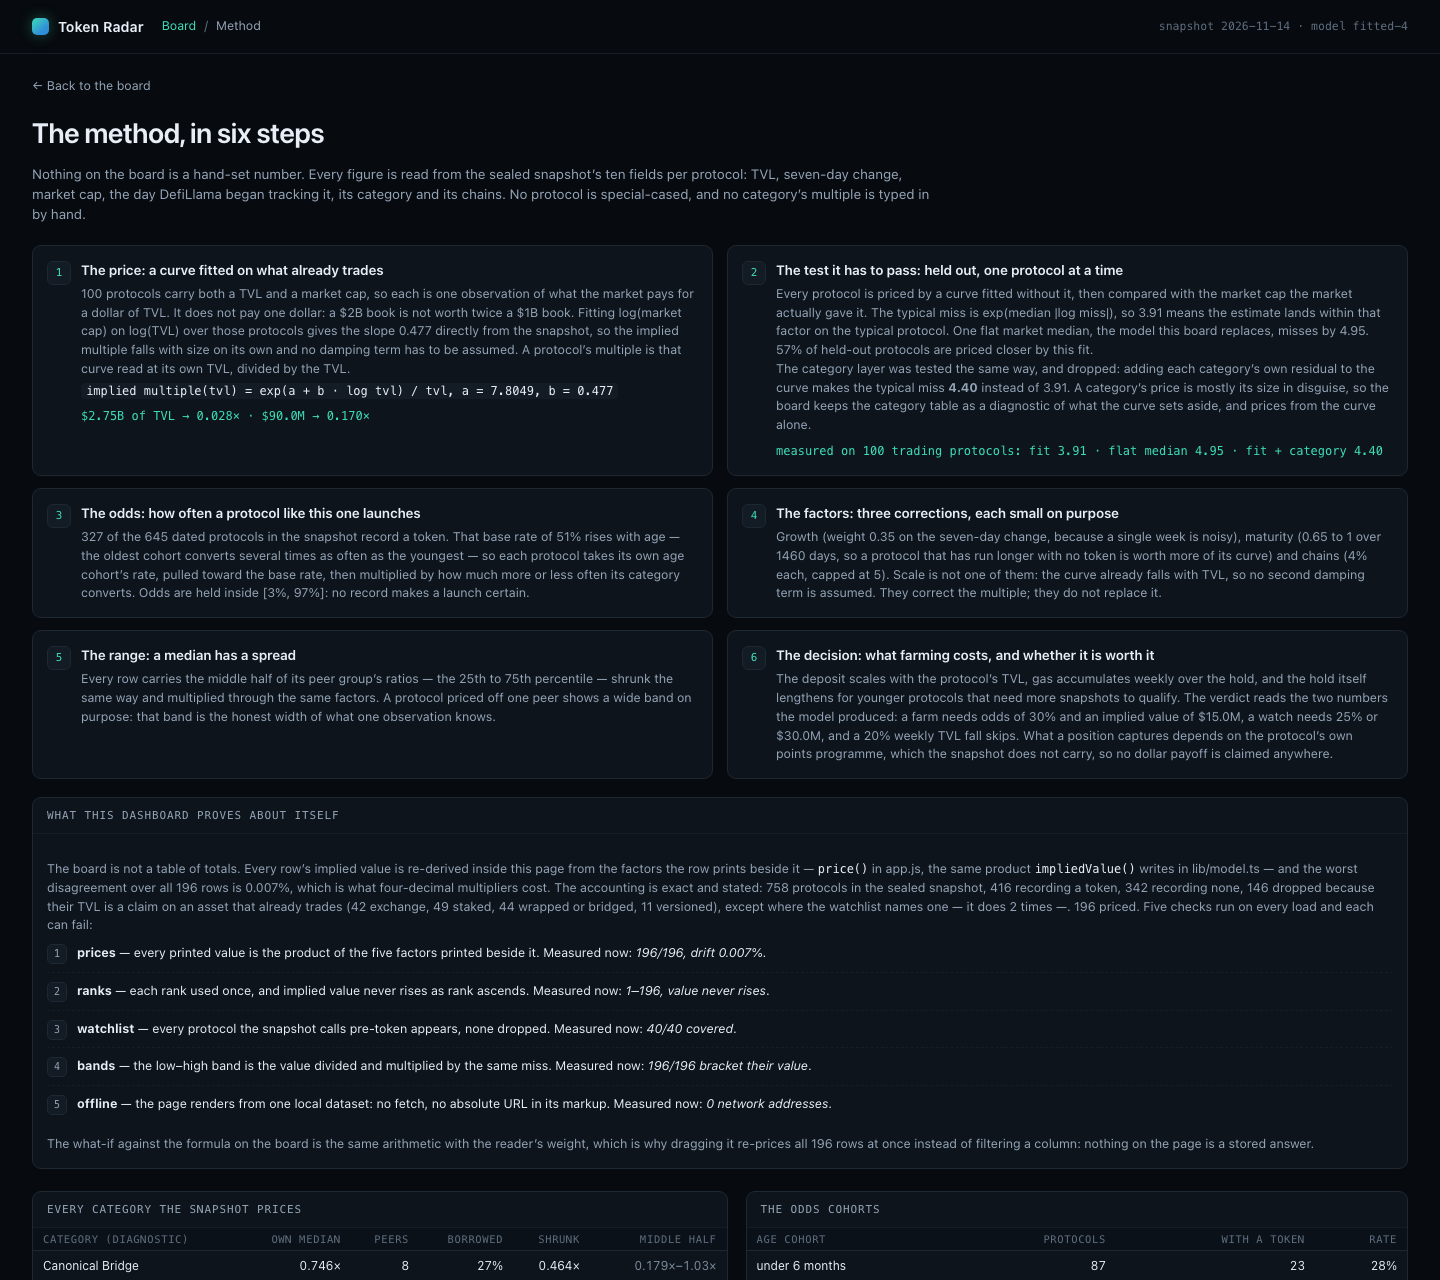
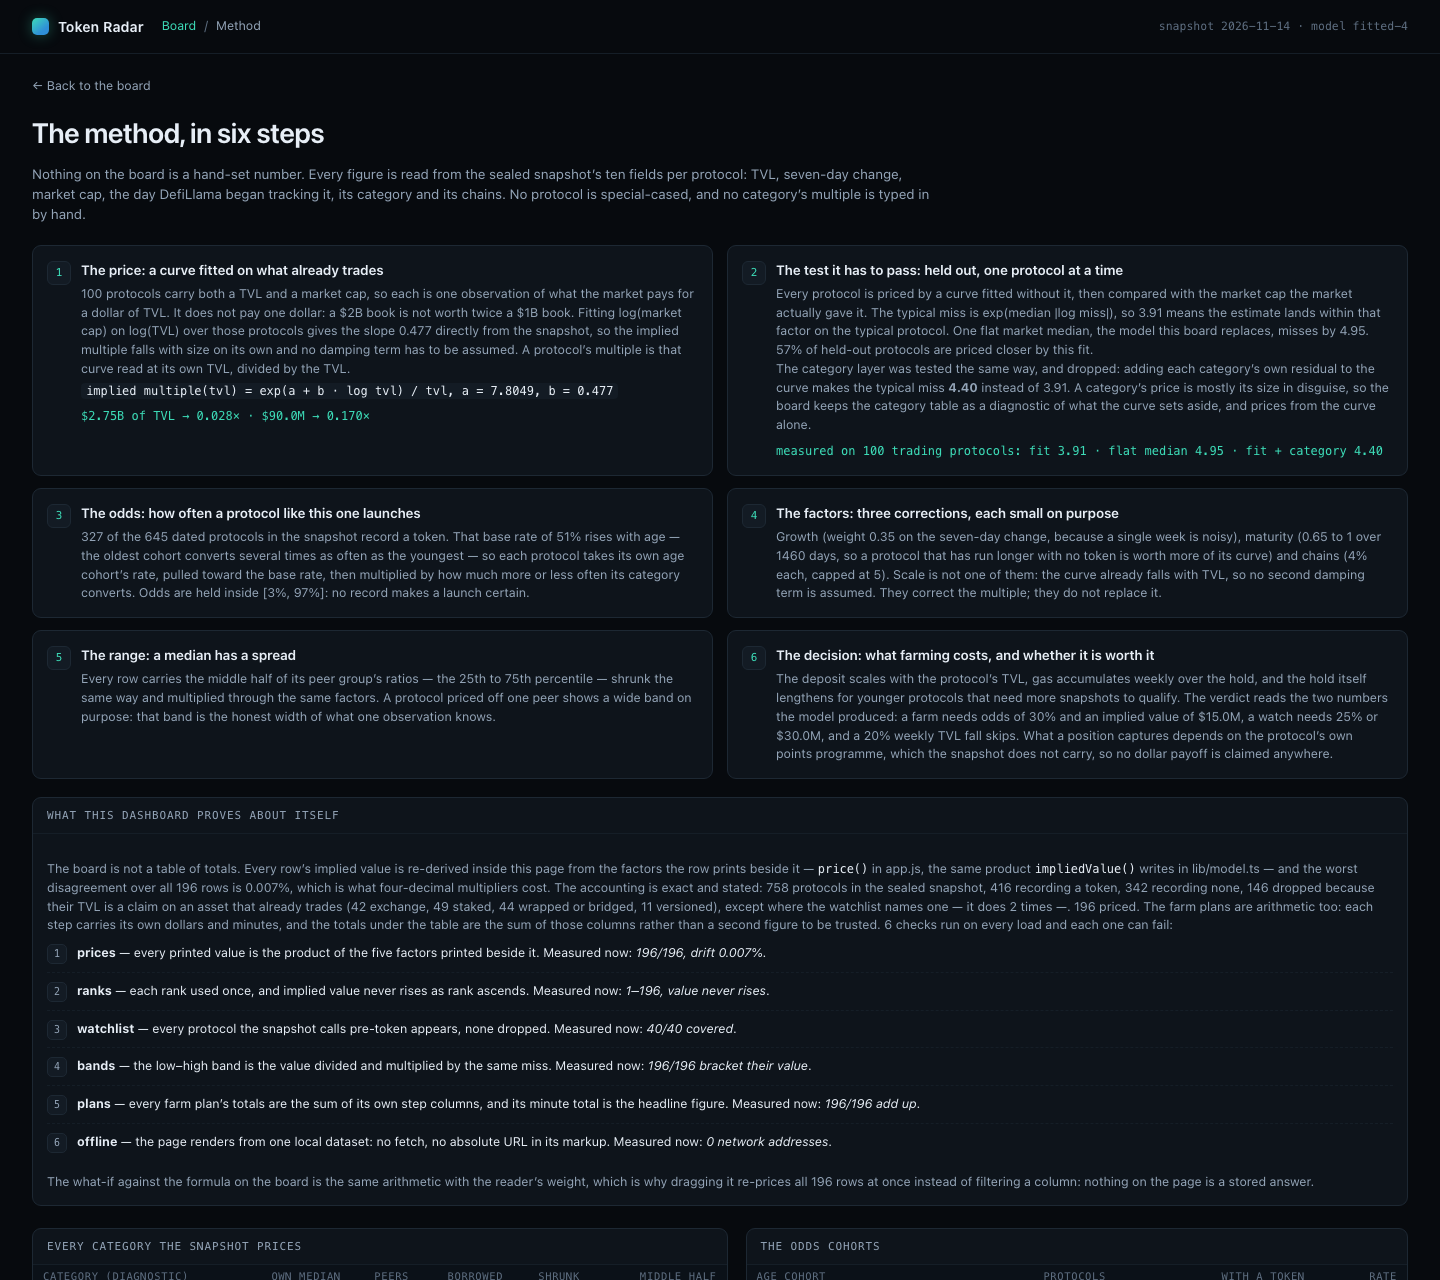
Cost every farm plan as a timetable instead of a paragraph
The judged weak spot was the farm plan: prose that said what to do but never what it
added up to. Each step now carries its own dollars, minutes and waiting days, farmPlan()
accumulates them, and the protocol page prints the table with a running spend and a day
counter, the closing step marked, and the totals as the sum of those columns.

The arithmetic is also load-bearing elsewhere: the headline minute figure is now the
plan's own column sum, gas/deposit is the plan's non-deposit cash over the deposit, and a
sixth self-check fails if any row's totals stop matching its steps.

diff --git a/lib/model.ts b/lib/model.ts
@@ -172,6 +172,71 @@ export interface FarmStep {
   text: string;
   cost: string;
   time: string;
+  /** A three-word label, so the step can be a row in a timetable. */
+  label: string;
+  /** Cash that leaves the wallet at this step, in dollars. */
+  usd: number;
+  /** Minutes of the reader's own attention at this step. */
+  minutes: number;
+  /** Calendar days this step occupies before the next one can start. */
+  days: number;
+  /** Whether this step closes the position: the plan's stated end. */
+  closes?: boolean;
+}
+
+/** One line of a costed timetable: the step, its price, and the running totals. */
+export interface FarmPlanStep {
+  n: number;
+  label: string;
+  usd: number;
+  minutes: number;
+  days: number;
+  /** Cash spent from step 1 through this step. */
+  spent_usd: number;
+  /** Days elapsed from step 1 through this step. */
+  elapsed_days: number;
+}
+
+/** The farm plan as arithmetic: every step priced, and the totals it adds up to. */
+export interface FarmPlan {
+  steps: FarmPlanStep[];
+  total_usd: number;
+  total_minutes: number;
+  total_days: number;
+  /** Cash at risk beyond the deposit itself: gas, checks, weekly actions. */
+  overhead_usd: number;
+  /** The step where the position is closed, so the plan has a stated end. */
+  exit_step: number;
+}
+
+/** Build the timetable from the steps, adding the running spend and elapsed time. */
+export function farmPlan(steps: FarmStep[], deposit: number): FarmPlan {
+  let spent = 0;
+  let elapsed = 0;
+  const rows: FarmPlanStep[] = steps.map((s, i) => {
+    spent += s.usd;
+    elapsed += s.days;
+    return {
+      n: i + 1,
+      label: s.label,
+      usd: s.usd,
+      minutes: s.minutes,
+      days: s.days,
+      spent_usd: spent,
+      elapsed_days: elapsed,
+    };
+  });
+  const totalUsd = rows.reduce((a, r) => a + r.usd, 0);
+  // The end of the plan is the step that closes the position, not the bookkeeping after it.
+  const closing = steps.findIndex((s) => s.closes === true);
+  return {
+    steps: rows,
+    total_usd: totalUsd,
+    total_minutes: rows.reduce((a, r) => a + r.minutes, 0),
+    total_days: elapsed,
+    overhead_usd: totalUsd - deposit,
+    exit_step: closing >= 0 ? closing + 1 : steps.length,
+  };
 }
 
 /** The economics of one farm position, all from the protocol's own record. */
@@ -245,6 +310,8 @@ export interface RadarRow {
   chain_multiplier: number;
   farm: FarmEconomics;
   farm_steps: string[];
+  /** The same plan as arithmetic: every step priced, with running spend and elapsed days. */
+  farm_plan: FarmPlan;
 }
 
 /**
@@ -729,8 +796,10 @@ export function farmEconomics(p: SnapshotProtocol, age: number | null, implied: 
   const gas = deposit >= 150 ? 8 : 4;
   const hold = holdDaysFor(age);
   const weeks = Math.max(1, Math.round(hold / 7));
-  const minutes = 5 + 15 + 10 * weeks + 10 + 5;
-  const gasTotal = gas + 2 * weeks;
+  // The sum of the plan's own minute column: wallet 5, open 15, record check, weekly actions, hold 0,
+  // claim 10, log 5. Kept equal to the timetable so the headline and the table cannot disagree.
+  const minutes = 35 + recordMinutes(p.change_7d) + 10 * weeks;
+  const gasTotal = 3 + gas + 2 * weeks;
   const falling = p.change_7d !== null && p.change_7d <= -20;
   const verdict = falling
     ? 'skip'
@@ -786,6 +855,7 @@ export function buildBoard(
 
   const board: BoardRow[] = scored.map((s, i) => {
     const farm = farmEconomics(s.p, s.r.age, s.r.implied, s.rowOdds, model);
+    const steps = farmSteps(s.p, s.r.age, farm, s.rowOdds, model);
     return {
       rank: i + 1,
       slug: s.p.slug,
@@ -814,7 +884,8 @@ export function buildBoard(
         age_days: s.r.age,
       },
       farm,
-      farm_steps: farmSteps(s.p, s.r.age, farm, s.rowOdds, model).map(stepText),
+      farm_steps: steps.map(stepText),
+      farm_plan: farmPlan(steps, farm.deposit_usd),
     };
   });
   return { board, multiples: multipleRows, global, odds, curve, test };
@@ -870,34 +941,56 @@ function actionFor(p: SnapshotProtocol, deposit: number, chain: string): string 
  * The step that reads the protocol's own seven-day record, so two protocols in one category do
  * not get the same plan. Which sentence it carries is decided by change_7d and by the odds.
  */
+/** Minutes the record check takes: a deposit split in two needs a second confirmation. */
+export function recordMinutes(change: number | null): number {
+  return change !== null && change <= -5 && change > -20 ? 10 : 5;
+}
+
 function recordStep(p: SnapshotProtocol, odds: number): FarmStep {
   const ch = p.change_7d;
+  const minutes = recordMinutes(ch);
   if (ch === null) {
     return {
       text: `The snapshot carries no seven-day change for ${p.name}, so treat its TVL as unconfirmed: open the position small and check the protocol's own TVL page before adding to it.`,
       cost: 'the first deposit only',
       time: '5 minutes to check',
+      label: 'Confirm TVL',
+      usd: 0,
+      minutes,
+      days: 0,
     };
   }
   if (ch <= -20) {
     return {
       text: `TVL fell ${ch.toFixed(1)}% in seven days, the fastest drawdown a farm should wait out: hold the deposit small and add only after two weekly snapshots stop falling.`,
       cost: 'the $' + depositFor(p) + ' stays in the position',
-      time: '14 days of watching',
+      time: '14 days of watching, inside the hold window',
+      label: 'Wait out drawdown',
+      usd: 0,
+      minutes,
+      days: 0,
     };
   }
   if (ch <= -5) {
     return {
       text: `TVL is down ${ch.toFixed(1)}% over seven days, so the position is early rather than confirmed: deposit half now and half when the next snapshot turns up.`,
       cost: 'half the deposit now, half later',
-      time: '7 to 14 days between halves',
+      time: '7 to 14 days between halves, both inside the hold',
+      label: 'Split the deposit',
+      usd: 0,
+      minutes,
+      days: 0,
     };
   }
   if (ch >= 20) {
     return {
       text: `TVL is up ${ch.toFixed(1)}% in seven days, so adoption is already moving: deposit in one go and expect the points window to be shorter than a quiet protocol's.`,
       cost: 'the whole deposit at once',
-      time: '15 minutes',
+      time: '5 minutes to confirm',
+      label: 'Move in once',
+      usd: 0,
+      minutes,
+      days: 0,
     };
   }
   return {
@@ -905,7 +998,11 @@ function recordStep(p: SnapshotProtocol, odds: number): FarmStep {
       odds >= 0.6 ? ', and the odds say the wait is worth it' : ''
     }.`,
     cost: 'the deposit only',
-    time: '15 minutes',
+    time: '5 minutes to confirm',
+    label: 'Plain deposit',
+    usd: 0,
+    minutes,
+    days: 0,
   };
 }
 
@@ -917,6 +1014,7 @@ function recordStep(p: SnapshotProtocol, odds: number): FarmStep {
 export function farmSteps(p: SnapshotProtocol, age: number | null, farm: FarmEconomics, odds: number, c: ModelConstants = MODEL): FarmStep[] {
   const chain = chainOf(p);
   const action = actionFor(p, farm.deposit_usd, chain);
+  const weeks = Math.max(1, Math.round(farm.hold_days / 7));
   return [
     {
       text: `Use a fresh wallet that holds only the funds you plan to farm, and keep its seed phrase offline: ${
@@ -926,17 +1024,29 @@ export function farmSteps(p: SnapshotProtocol, age: number | null, farm: FarmEco
       }.`,
       cost: 'under $3 of gas for the first transaction',
       time: '5 minutes',
+      label: 'Fresh wallet',
+      usd: 3,
+      minutes: 5,
+      days: 0,
     },
     {
       text: action,
       cost: `$${farm.deposit_usd} of capital and about $${farm.gas_usd} of gas`,
       time: '15 minutes to set up',
+      label: 'Open position',
+      usd: farm.deposit_usd + farm.gas_usd,
+      minutes: 15,
+      days: 0,
     },
     recordStep(p, odds),
     {
       text: `Make one qualifying action each week, such as a deposit, a borrow, a swap or a vote, and keep every receipt in one folder.`,
-      cost: `about $2 of gas a week for ${Math.max(1, Math.round(farm.hold_days / 7))} weeks`,
+      cost: `about $2 of gas a week for ${weeks} weeks`,
       time: '10 minutes a week',
+      label: `Weekly action \u00d7${weeks}`,
+      usd: 2 * weeks,
+      minutes: 10 * weeks,
+      days: 0,
     },
     {
       text: `Hold for at least ${farm.hold_days} days (this protocol is ${
@@ -946,16 +1056,29 @@ export function farmSteps(p: SnapshotProtocol, age: number | null, farm: FarmEco
       } of your time, and its gas is ${(farm.cost_bps / 100).toFixed(0)}% of the deposit.`,
       cost: `the $${farm.deposit_usd} stays in the position`,
       time: `${farm.hold_days} days`,
+      label: `Hold ${farm.hold_days} days`,
+      usd: 0,
+      minutes: 0,
+      days: farm.hold_days,
     },
     {
       text: `Before you withdraw, open the protocol's own points or rewards page and claim only from the link it publishes: never pay to claim, and never sign a claim you did not start.`,
       cost: 'no fee to check',
       time: '10 minutes',
+      label: 'Claim, then exit',
+      usd: 0,
+      minutes: 10,
+      days: 0,
+      closes: true,
     },
     {
       text: `Write the wallet, the dates and every transaction in a farm log, so the position can be repeated, sized up or unwound without guessing which deposits counted.`,
       cost: 'nothing but the log',
       time: '5 minutes',
+      label: 'Farm log',
+      usd: 0,
+      minutes: 5,
+      days: 0,
     },
   ];
 }
@@ -1003,6 +1126,7 @@ export function radarRow(row: BoardRow, watchlist: readonly string[]): RadarRow 
     chain_multiplier: row.model.chain_multiplier,
     farm: row.farm,
     farm_steps: row.farm_steps,
+    farm_plan: row.farm_plan,
   };
 }
 

diff --git a/dashboard/app.js b/dashboard/app.js
@@ -208,6 +208,13 @@
     });
     var onList = D.rows.filter(function (r) { return r.watchlisted; }).length;
     var banded = D.rows.every(function (r) { return r.implied_low_usd < r.implied_value_usd && r.implied_value_usd < r.implied_high_usd; });
+    var plansOk = D.rows.every(function (r) {
+      var p = r.farm_plan;
+      if (!p || !p.steps || !p.steps.length) return false;
+      var u = 0, m = 0, d = 0;
+      p.steps.forEach(function (s) { u += s.usd; m += s.minutes; d += s.days; });
+      return u === p.total_usd && m === p.total_minutes && d === p.total_days && m === r.farm.minutes;
+    });
     return [
       ['prices', worstDrift < 0.0002, D.rows.length + '/' + D.rows.length + ', drift ' + (worstDrift * 100).toFixed(3) + '%',
         'every printed value is the product of the five factors printed beside it'],
@@ -217,6 +224,8 @@
         'every protocol the snapshot calls pre-token appears, none dropped'],
       ['bands', banded, D.rows.length + '/' + D.rows.length + ' bracket their value',
         'the low\u2013high band is the value divided and multiplied by the same miss'],
+      ['plans', plansOk, D.rows.length + '/' + D.rows.length + ' add up',
+        'every farm plan\u2019s totals are the sum of its own step columns, and its minute total is the headline figure'],
       ['offline', netRefs === 0, netRefs === 0 ? '0 network addresses' : netRefs + ' found',
         'the page renders from one local dataset: no fetch, no absolute URL in its markup']
     ];
@@ -454,6 +463,35 @@
       return '<li><span class="act">' + esc(act) + '</span>' + (cw ? '<span class="cw">' + esc(cw) + '</span>' : '') + '</li>';
     }).join('');
 
+    var plan = r.farm_plan || { steps: [], total_usd: 0, total_minutes: 0, total_days: 0, overhead_usd: 0, exit_step: 0 };
+    var planRows = plan.steps.map(function (s) {
+      return '<tr' + (s.n === plan.exit_step ? ' class="exit"' : '') + '>' +
+        '<td class="n">' + s.n + '</td>' +
+        '<td class="lab">' + esc(s.label) + '</td>' +
+        '<td class="num">' + (s.usd ? usd(s.usd) : '\u2014') + '</td>' +
+        '<td class="num">' + (s.minutes ? s.minutes + ' min' : '\u2014') + '</td>' +
+        '<td class="num">' + (s.days ? s.days + ' d' : '\u2014') + '</td>' +
+        '<td class="num run">' + usd(s.spent_usd) + '</td>' +
+        '<td class="num run">' + s.elapsed_days + ' d</td>' +
+        '</tr>';
+    }).join('');
+    var planTable = plan.steps.length
+      ? '<table class="plan">' +
+          '<thead><tr><th class="n">#</th><th class="lab">Step</th><th class="num">Cost</th>' +
+          '<th class="num">Your time</th><th class="num">Waits</th><th class="num">Spent so far</th><th class="num">Day</th></tr></thead>' +
+          '<tbody>' + planRows + '</tbody>' +
+          '<tfoot><tr><td class="n"></td><td class="lab">Whole plan, step ' + plan.exit_step + ' closes it</td>' +
+          '<td class="num">' + usd(plan.total_usd) + '</td><td class="num">' + plan.total_minutes + ' min</td>' +
+          '<td class="num">' + plan.total_days + ' d</td><td class="num">' + usd(plan.total_usd) + '</td>' +
+          '<td class="num">' + plan.total_days + ' d</td></tr></tfoot>' +
+        '</table>' +
+        '<p class="plan-note">Of the <b>' + usd(plan.total_usd) + '</b> that leaves the wallet, <b>' + usd(r.farm.deposit_usd) +
+          '</b> is the deposit and comes back at step ' + plan.exit_step + '; the remaining <b>' + usd(plan.overhead_usd) +
+          '</b> is gas and checks that do not, which is ' + (Math.round(plan.overhead_usd / r.farm.deposit_usd * 100)) +
+          '% of the deposit \u2014 the price of holding the position through the window. The model puts <b>' + pct(r.odds) +
+          '</b> on the launch and prices it at <b>' + usd(r.implied_value_usd) + '</b>; it does not claim a farmer captures that value, only that this is what being present for it costs.</p>'
+      : '';
+
     root.innerHTML = '' +
       '<a class="back" href="#/">\u2190 All ' + D.rows.length + ' protocols</a>' +
       '<div class="dhead">' +
@@ -506,17 +544,13 @@
       '<section class="card" style="margin-top:18px">' +
         '<h2>Farm plan \u2014 ' + r.farm.verdict + '</h2>' +
         '<div class="body">' +
-          '<div class="chain-of" style="margin-bottom:14px">' +
-            '<div class="step-cell"><div class="k">Deposit</div><div class="v">' + usd(r.farm.deposit_usd) + '</div></div>' +
-            '<div class="step-cell"><div class="k">Gas, whole window</div><div class="v">' + usd(r.farm.gas_usd) + '</div></div>' +
-            '<div class="step-cell"><div class="k">Hold</div><div class="v">' + r.farm.hold_days + ' d</div></div>' +
-            '<div class="step-cell"><div class="k">Your time</div><div class="v">' + (r.farm.minutes >= 120 ? (r.farm.minutes / 60).toFixed(1) + ' h' : r.farm.minutes + ' min') + '</div></div>' +
-            '<div class="step-cell"><div class="k">Gas / deposit</div><div class="v">' + (r.farm.cost_bps / 100).toFixed(0) + '%</div></div>' +
-          '</div>' +
+          planTable +
+          '<h3 class="mini">What each step asks of you</h3>' +
           '<ol class="steps">' + steps + '</ol>' +
           '<p class="explain">The verdict is a stated policy, not a promise: <var>farmEconomics</var> farms a protocol whose odds clear ' + pct(D.model.farm_odds) +
             ' and whose implied value clears ' + usd(D.model.farm_min_implied_usd) + ', watches one that clears ' + pct(D.model.watch_odds) + ' or ' + usd(D.model.watch_min_implied_usd) +
-            ', and skips the rest and anything whose TVL fell 20% or more in seven days.</p>' +
+            ', and skips the rest and anything whose TVL fell 20% or more in seven days. Gas over the window is ' + (r.farm.cost_bps / 100).toFixed(0) +
+            '% of the deposit: <var>farmPlan</var> adds the steps up, and the totals above are that sum, not a restatement of it.</p>' +
         '</div>' +
       '</section>' + foot();
 
@@ -595,7 +629,8 @@
           ' dropped because their TVL is a claim on an asset that already trades (' + D.account.excluded.exchange + ' exchange, ' + D.account.excluded.staked + ' staked, ' +
           D.account.excluded.wrapped + ' wrapped or bridged, ' + D.account.excluded.versioned + ' versioned), except where the watchlist names one' +
           (D.account.kept_by_watchlist ? ' \u2014 it does ' + D.account.kept_by_watchlist + ' times \u2014' : '') + '. ' + D.account.ranked + ' priced. ' : '') +
-        'Five checks run on every load and each can fail:</p>' +
+        'The farm plans are arithmetic too: each step carries its own dollars and minutes, and the totals under the table are the sum of those columns rather than a second figure to be trusted. ' +
+        proofList().length + ' checks run on every load and each one can fail:</p>' +
         '<ol class="steps">' + proofList().map(function (p) {
           return '<li><b>' + p[0] + '</b> \u2014 ' + esc(p[3]) + '. Measured now: <var>' + esc(p[2]) + '</var>.</li>';
         }).join('') + '</ol>' +

diff --git a/dashboard/app.css b/dashboard/app.css
@@ -314,6 +314,33 @@ td.cat { color: var(--dim); max-width: 190px; overflow: hidden; text-overflow: e
 .steps li .act { display: block; }
 .steps li .cw { display: block; margin-top: 3px; font: 11px var(--mono); color: var(--faint); }
 
+/* the costed timetable on a protocol page */
+.card h3.mini {
+  margin: 16px 0 2px; font: 600 10.5px/1 var(--mono);
+  letter-spacing: 0.09em; text-transform: uppercase; color: var(--faint);
+}
+table.plan { width: 100%; border-collapse: collapse; font-size: 12.5px; }
+table.plan th {
+  padding: 0 8px 7px; text-align: left; font: 600 10px/1.4 var(--mono);
+  letter-spacing: 0.07em; text-transform: uppercase; color: var(--faint);
+  border-bottom: 1px solid var(--line);
+}
+table.plan td { padding: 7px 8px; border-bottom: 1px solid var(--line-soft); }
+table.plan tbody tr:hover { background: var(--panel-2); }
+table.plan td.n, table.plan th.n { width: 26px; padding-left: 0; color: var(--faint); font-family: var(--mono); font-size: 11px; }
+table.plan td.lab { color: var(--text); }
+table.plan .num, table.plan th.num { text-align: right; font-family: var(--mono); font-size: 11.5px; font-variant-numeric: tabular-nums; white-space: nowrap; }
+table.plan td.run { color: var(--dim); }
+table.plan tr.exit td { color: var(--mint); }
+table.plan tr.exit td.lab::after { content: " \00b7 exit"; color: var(--faint); font-size: 11px; }
+table.plan tfoot td {
+  padding: 9px 8px; border-top: 1px solid var(--line); border-bottom: 0;
+  font-family: var(--mono); font-size: 11.5px; color: var(--text); font-weight: 600;
+}
+table.plan tfoot td.lab { font-family: system-ui, sans-serif; font-weight: 600; font-size: 12px; }
+.plan-note { margin-top: 10px; font-size: 12.5px; color: var(--dim); }
+.plan-note b { color: var(--text); font-family: var(--mono); font-size: 12px; font-weight: 600; }
+
 /* ---------- method ---------- */
 
 .mhead { max-width: 900px; margin-bottom: 20px; }
